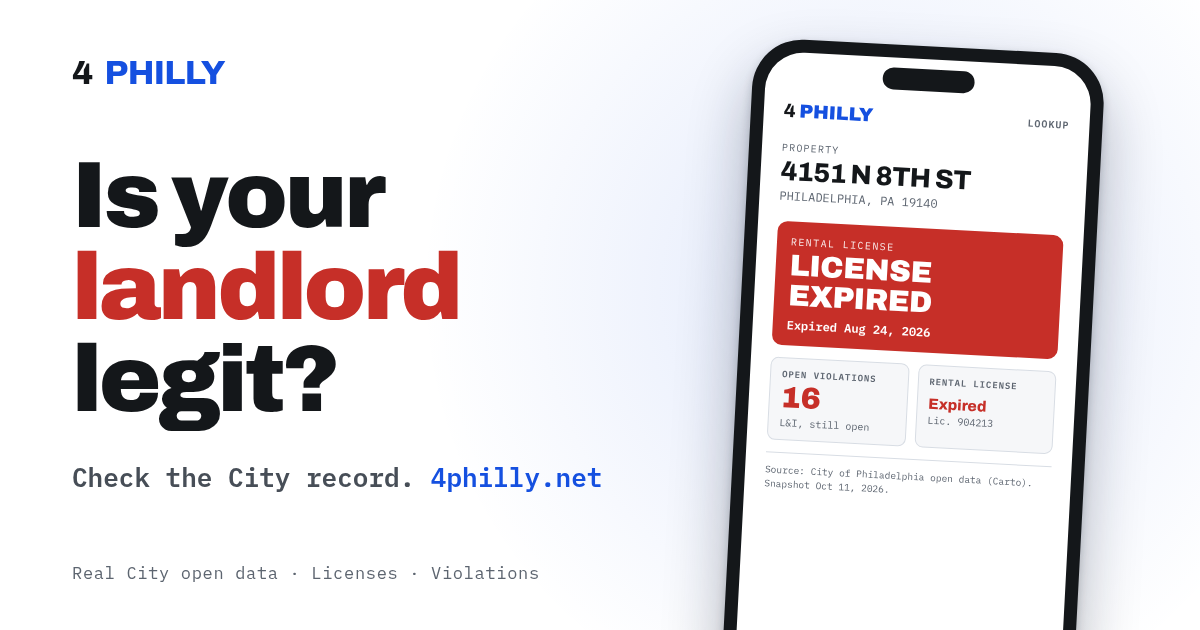
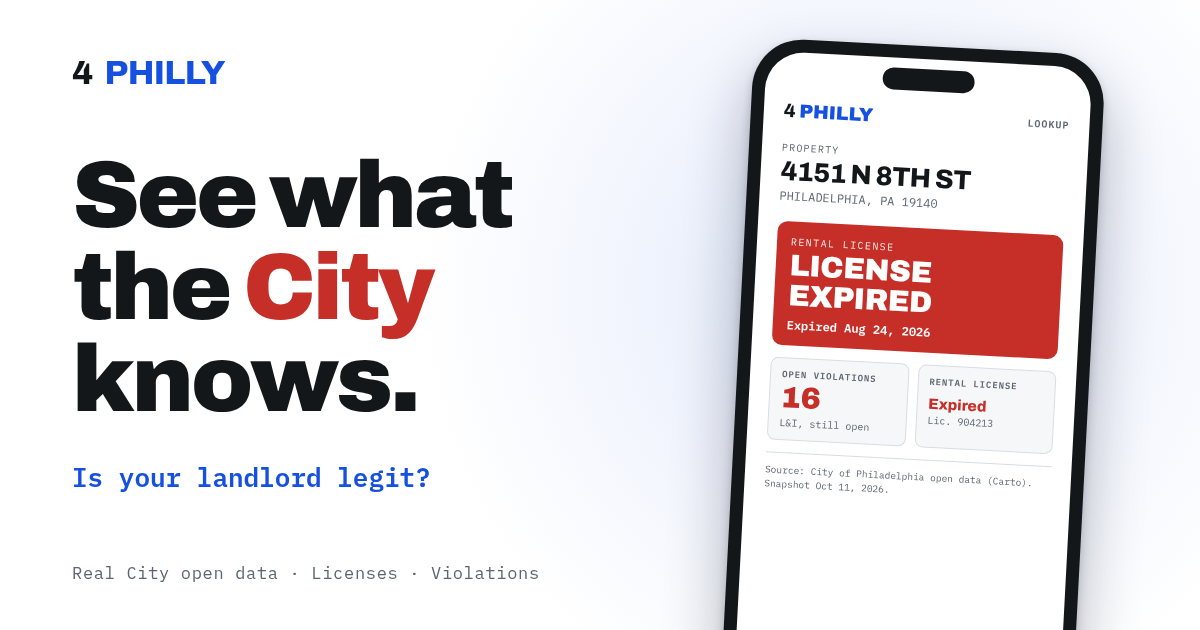
Home OG card: restore headline, sub line only

diff --git a/index.html b/index.html
@@ -38,18 +38,18 @@
 <meta property="og:description" content="Apartments.com and Zillow show you photos and reviews. 4philly shows you the truth: open code violations, whether the rental license is active, and 311 complaints on any Philadelphia address. Apartment-hunting in Philly? Check here first — free, before you sign.">
 <meta property="og:type" content="website">
 <meta property="og:url" content="https://4philly.net/">
-<meta property="og:image" content="https://4philly.net/og-main.png?v=20261012">
+<meta property="og:image" content="https://4philly.net/og-main.png?v=20261012b">
 <meta property="og:image:width" content="1200">
 <meta property="og:image:height" content="630">
 <meta property="og:image:type" content="image/png">
-<meta property="og:image:alt" content="Is your landlord legit? A phone showing a Philadelphia property lookup with a red LICENSE EXPIRED badge and open L&amp;I violations. 4philly.net">
+<meta property="og:image:alt" content="4PHILLY on a phone: a Philadelphia property lookup showing a red LICENSE EXPIRED badge and open L&amp;I violations. See what the City knows. Is your landlord legit?">
 <meta property="og:site_name" content="4PHILLY">
 <meta property="og:locale" content="en_US">
 <meta name="twitter:card" content="summary_large_image">
 <meta name="twitter:title" content="Philadelphia Apartments: Check It Before You Rent — 4PHILLY">
 <meta name="twitter:description" content="Listing sites show photos and reviews. 4philly shows the real City record — code violations, rental license status, and 311 complaints on any Philadelphia address. Check here first, free, before you sign.">
-<meta name="twitter:image" content="https://4philly.net/og-main.png?v=20261012">
-<meta name="twitter:image:alt" content="Is your landlord legit? A phone showing a Philadelphia property lookup with a red LICENSE EXPIRED badge and open L&amp;I violations. 4philly.net">
+<meta name="twitter:image" content="https://4philly.net/og-main.png?v=20261012b">
+<meta name="twitter:image:alt" content="4PHILLY on a phone: a Philadelphia property lookup showing a red LICENSE EXPIRED badge and open L&amp;I violations. See what the City knows. Is your landlord legit?">
 <script type="application/ld+json">
 {
   "@context": "https://schema.org",

diff --git a/tools/og-sources/gen_main.py b/tools/og-sources/gen_main.py
@@ -46,8 +46,8 @@ h1 em{font-style:normal;color:var(--red)}
 <div class="glow"></div>
 <div class="mark"><span>4</span><b>PHILLY</b></div>
 <div class="copy">
-  <h1>Is your <em>landlord</em> legit?</h1>
-  <div class="sub">Check the City record. <b>4philly.net</b></div>
+  <h1>See what the <em>City</em> knows.</h1>
+  <div class="sub"><b>Is your landlord legit?</b></div>
 </div>
 <div class="foot">Real City open data &middot; Licenses &middot; Violations</div>
 <div class="phone"><div class="screen"><div class="notch"></div>
